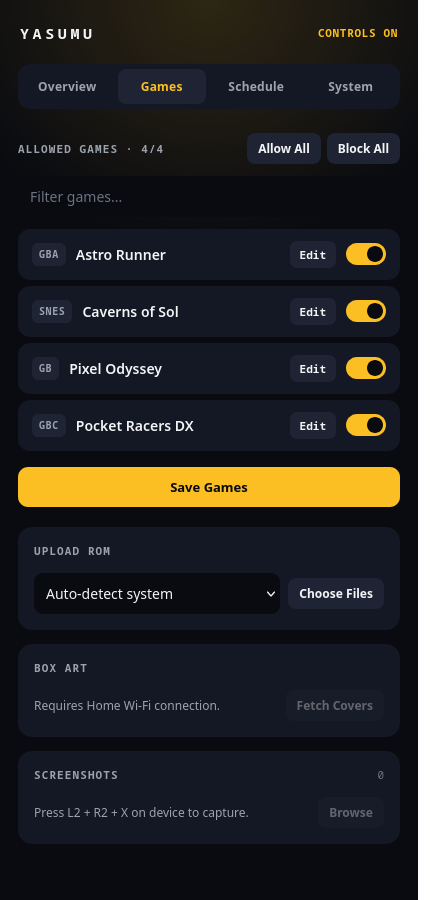
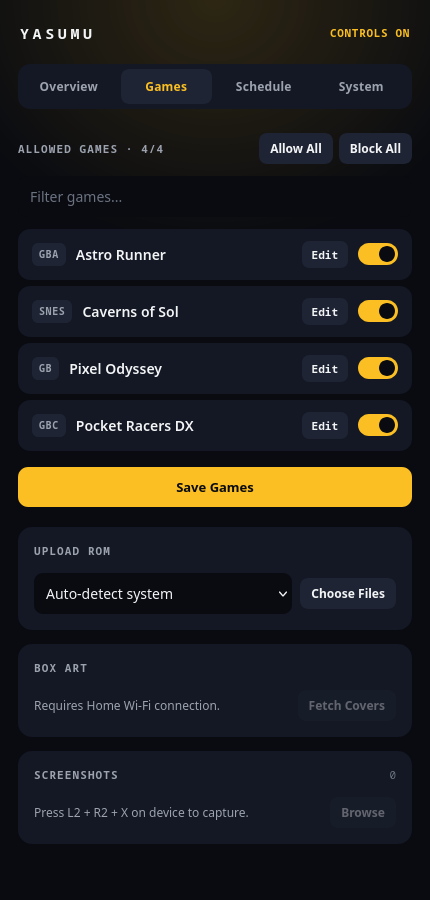
Remove scrollbar gutter from Web Portal CSS and regenerate centered screenshots

diff --git a/src/portal_ui.css b/src/portal_ui.css
@@ -19,7 +19,8 @@
     --mono: "JetBrains Mono", ui-monospace, SFMono-Regular, Menlo, Consolas, monospace;
   }
   * { box-sizing: border-box; margin: 0; padding: 0; }
-  html, body { min-height: 100%; }
+  html, body { min-height: 100%; background-color: var(--canvas); scrollbar-width: none; }
+  html::-webkit-scrollbar, body::-webkit-scrollbar { display: none; }
   body {
     font-family: var(--sans);
     background-color: var(--canvas);
